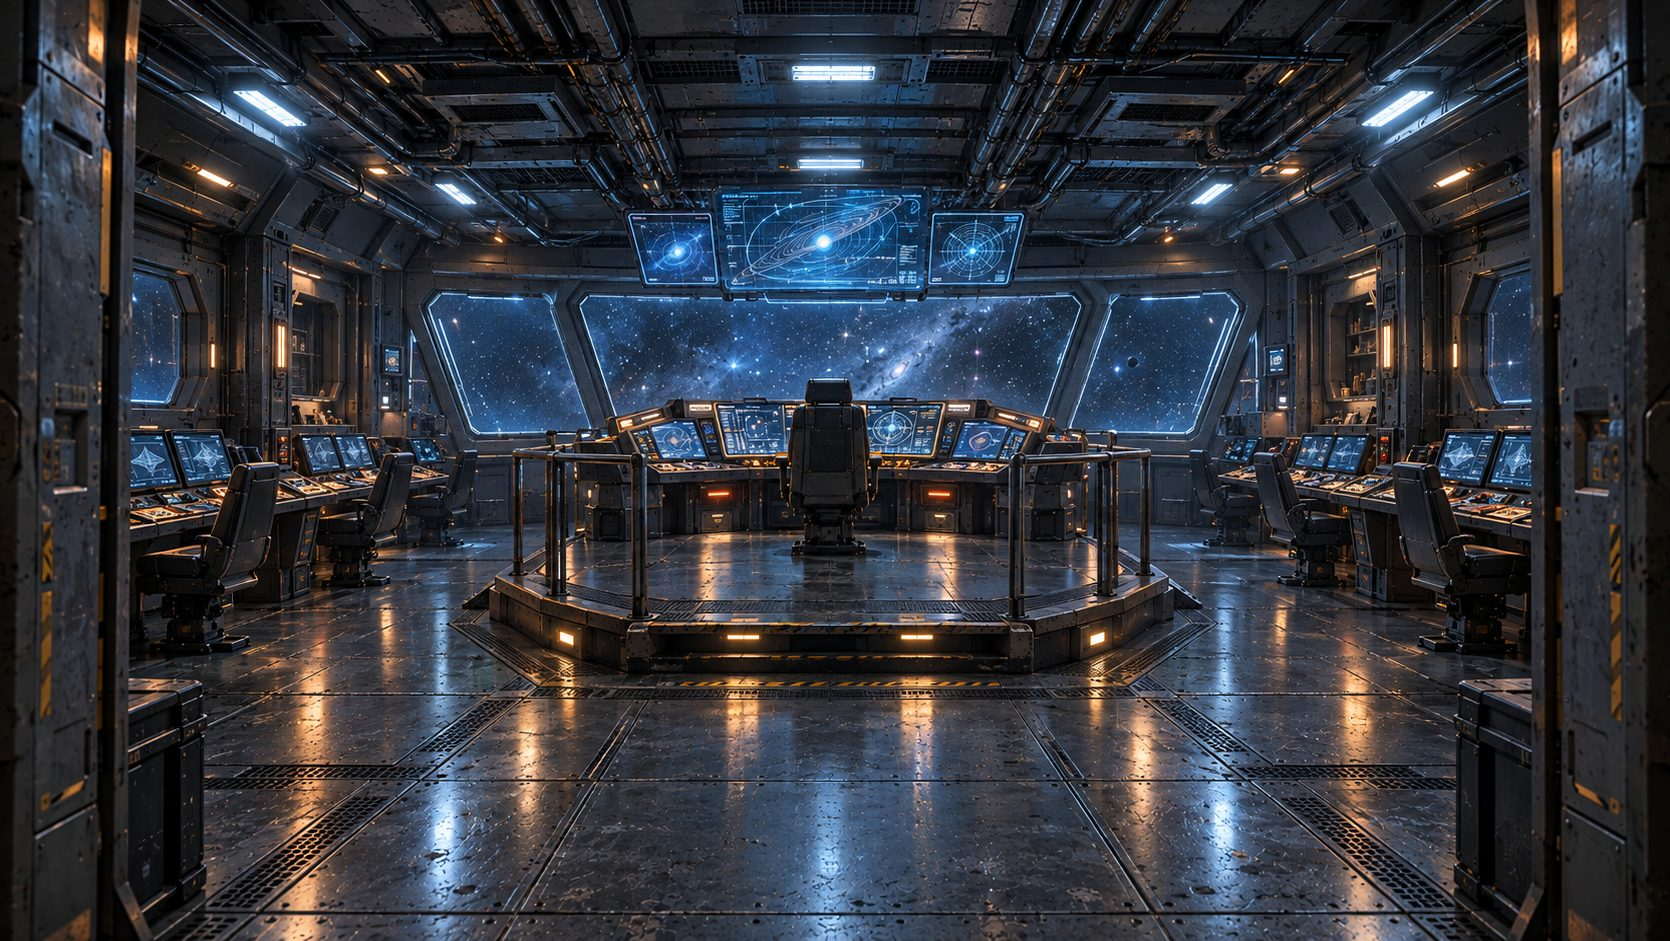
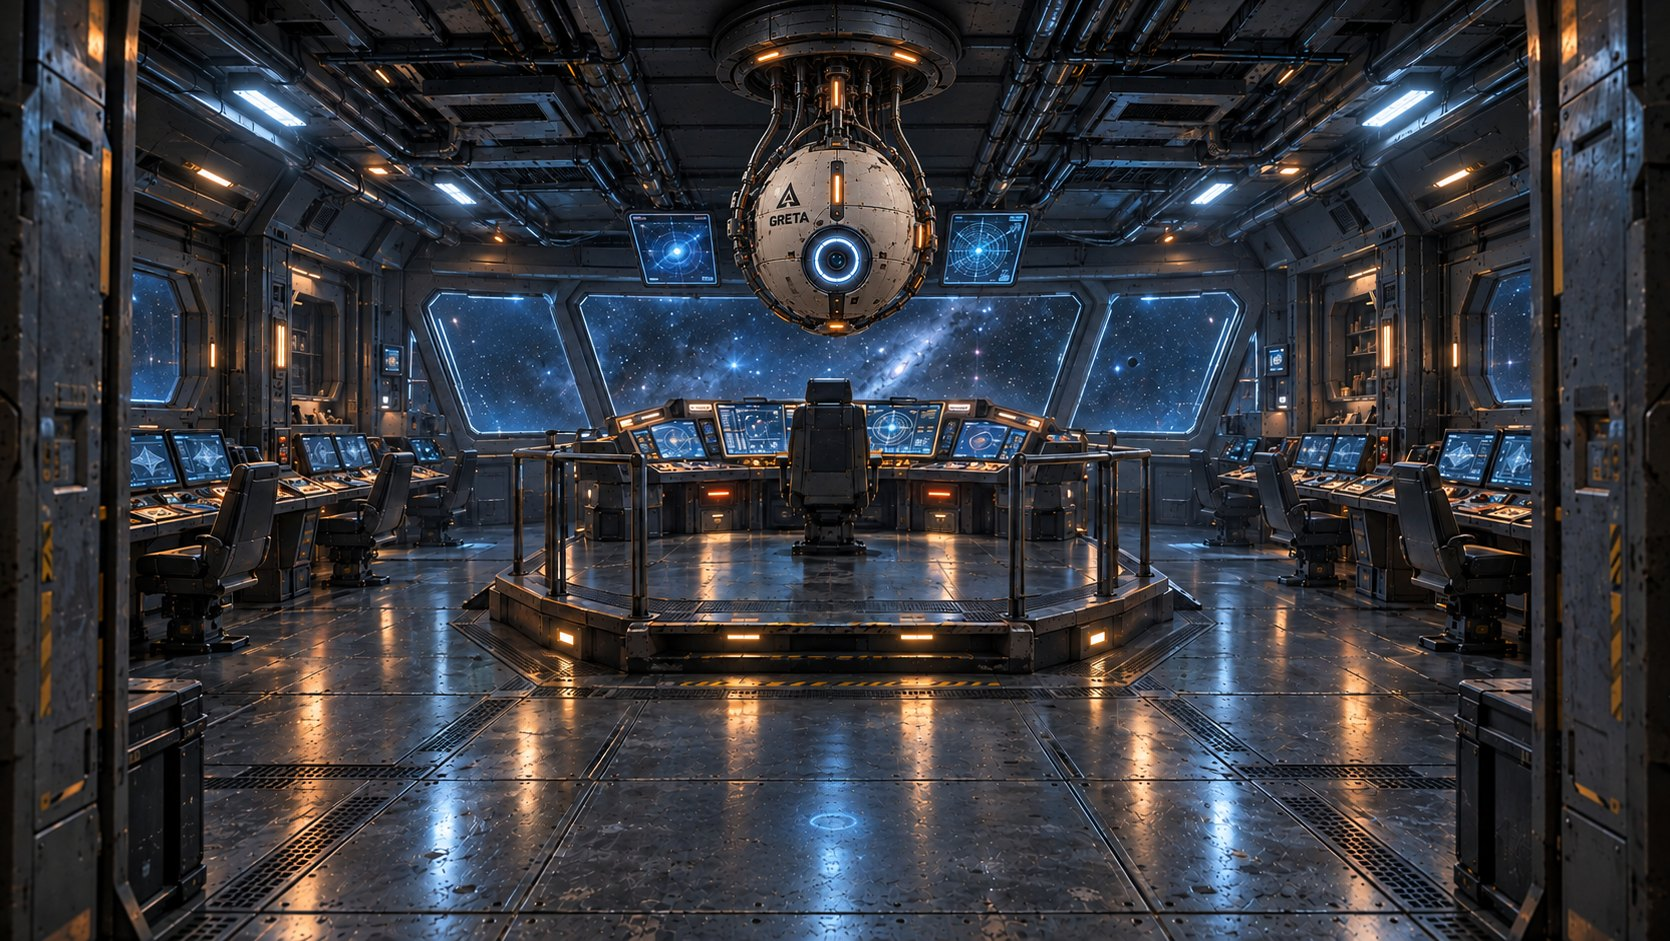
Новий капітанський місток A1
Claude-Session: https://claude.ai/code/session_01L4NAMirpdvCDRV66K9yRcj

diff --git a/js/app.js b/js/app.js
@@ -1,12 +1,12 @@
-import { createStore } from './store.js?v=202611221237';
+import { createStore } from './store.js?v=202611221238';
 import {
   CHARACTERS, CHAR_BY_ID, ROOMS, ROOM_BY_ID, STAT_LABELS, SAVE_LABELS,
   PANIC_TABLE, WOUND_TABLE, EVENTS, GRETA_MODES, O2_START, initialChars,
   ROOM_LINKS, ROBOTS, ROBOT_BY_ID, XT2_HINTS
-} from './data.js?v=202611221237';
-import { CAMPAIGN, THREAT_STAGES, OBJECTIVES, OBJ_BY_ID, ROUND_EVENTS, GRETA_LINES, LONG_ACTIONS, INTRO_SLIDES } from './campaign.js?v=202611221237';
+} from './data.js?v=202611221238';
+import { CAMPAIGN, THREAT_STAGES, OBJECTIVES, OBJ_BY_ID, ROUND_EVENTS, GRETA_LINES, LONG_ACTIONS, INTRO_SLIDES } from './campaign.js?v=202611221238';
 
-const VERSION = '202611221237';
+const VERSION = '202611221238';
 // ---------- утиліти ----------
 const $ = s => document.querySelector(s);
 const esc = s => String(s ?? '').replace(/[&<>"']/g, c => ({ '&': '&amp;', '<': '&lt;', '>': '&gt;', '"': '&quot;', "'": '&#39;' }[c]));
@@ -1197,7 +1197,7 @@ async function bootGM() {
     }
   }
   S.isAdmin = true;
-  try { S.items = (await import('./gm-items.js?v=202611221237')).ITEMS; } catch (e) { console.warn('items', e); S.items = []; }
+  try { S.items = (await import('./gm-items.js?v=202611221238')).ITEMS; } catch (e) { console.warn('items', e); S.items = []; }
   subs.push(store.on('game/state', v => { S.state = v; renderGM(); }));
   subs.push(store.on('game/seats', v => { S.seats = v || {}; if ($('#gmRoot')) renderCrew(); }));
   subs.push(store.on('game/chars', v => { S.chars = v || {}; if ($('#gmRoot')) { renderMain(); renderCrew(); } }));

diff --git a/index.html b/index.html
@@ -15,7 +15,7 @@
   <link rel="preconnect" href="https://fonts.googleapis.com">
   <link rel="preconnect" href="https://fonts.gstatic.com" crossorigin>
   <link href="https://fonts.googleapis.com/css2?family=Inter:wght@400;500;600&family=JetBrains+Mono:wght@400;700&family=Oswald:wght@400;500;600&display=swap" rel="stylesheet">
-  <link rel="stylesheet" href="css/style.css?v=202611221237">
+  <link rel="stylesheet" href="css/style.css?v=202611221238">
 </head>
 <body>
   <div id="intro" class="intro">
@@ -24,6 +24,6 @@
   </div>
   <div id="app"></div>
   <script>if ('serviceWorker' in navigator && !/[?&#]gm\b/.test(location.search + location.hash)) navigator.serviceWorker.register('sw.js').catch(() => {});</script>
-  <script type="module" src="js/app.js?v=202611221237"></script>
+  <script type="module" src="js/app.js?v=202611221238"></script>
 </body>
 </html>

diff --git a/js/store.js b/js/store.js
@@ -1,5 +1,5 @@
 // Шар даних: Firebase Realtime Database або демо-режим (localStorage, синхронізація між вкладками).
-import { firebaseConfig } from './config.js?v=202611221237';
+import { firebaseConfig } from './config.js?v=202611221238';
 
 const FB = 'https://www.gstatic.com/firebasejs/10.12.2/';
 
